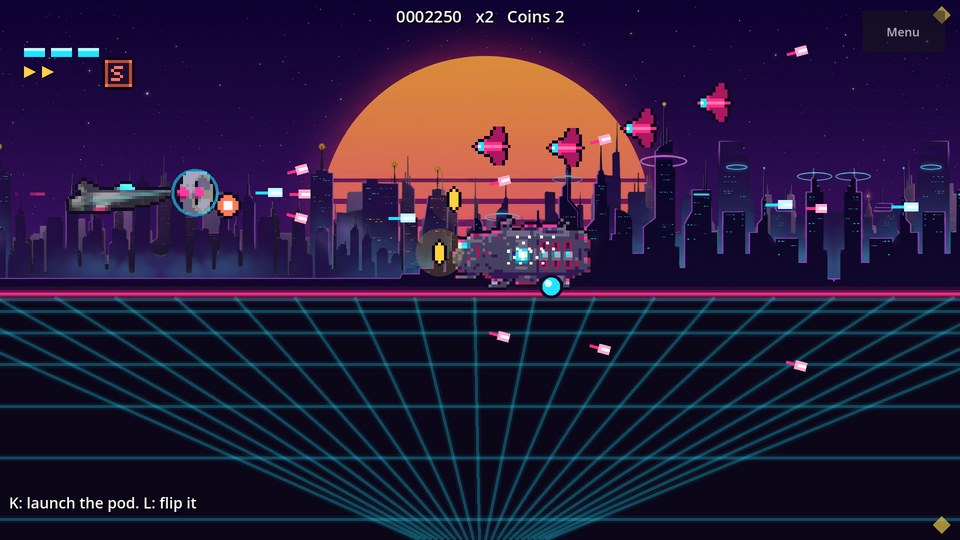
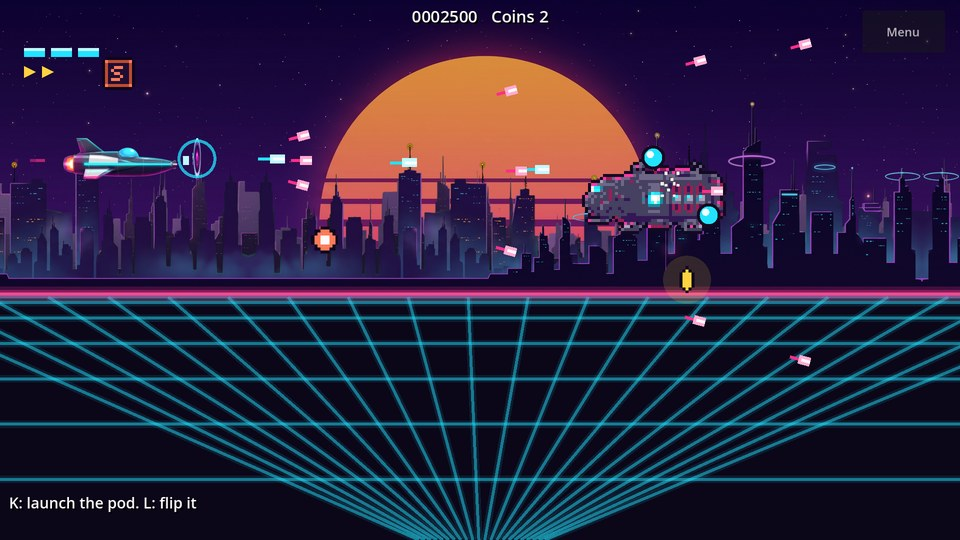
Sunset Static card: v0.10.0, new picture, updated stamp
Claude-Session: https://claude.ai/code/session_0117TTY9Shd3oMHo44cQrrLR

diff --git a/index.html b/index.html
@@ -68,12 +68,13 @@ h2 a[href="lo-fi-league/"]{font-size:.9em;word-spacing:.35em}h2 a[href="pixel-ho
 <!-- One card per game. To add a game, copy a card, change data-repo, the picture, the text and the links. The version fills itself from each game page. The Updated stamp does not: every release sets it to the release date and time in Central time (G1.10, G2.7). The page shows the newest Updated stamp first, so a new card can go anywhere in this list. -->
 <section class="grid">
 
+
 <article class="card" data-repo="sunset-static">
-<a class="shot" href="sunset-static/"><img src="images/sunset-static.jpg?v=0.9.0" alt="Sunset Static: the needle ship and its pod fire at a Ring Carrier and drifters over a painted neon city skyline and striped sunset" width="960" height="540" loading="lazy"></a>
+<a class="shot" href="sunset-static/"><img src="images/sunset-static.jpg?v=0.10.0" alt="Sunset Static: the HD painted needle ship and chrome pod fire at a Ring Carrier over a painted neon city and striped sunset" width="960" height="540" loading="lazy"></a>
 <div class="body">
 <div class="top"><h2><a href="sunset-static/">Sunset Static</a></h2><span class="tag">A calm neon side-scrolling shooter</span></div>
 <p class="desc">Fly a needle ship through a painted neon synthwave night, then on into a giant arcade in Stage 2. Shoot the waves, charge a neon arrow beam and steer a shield pod past crystal drones, shielded haulers, prize claws and bouncing saucers. Every enemy drops coins: spend them on permanent upgrades in the shop after each stage. No bosses and no game over. Five save slots. Touch, keyboard or Xbox controller, upright or sideways.</p>
-<p class="meta">Browser and Android<span class="ver"> · Version 0.9.0</span> <span class="upd">· Updated <time datetime="2026-11-22T11:10-06:00">Nov 22, 2026, 11:10 AM CT</time></span></p>
+<p class="meta">Browser and Android<span class="ver"> · Version 0.10.0</span> <span class="upd">· Updated <time datetime="2026-11-22T12:00-06:00">Nov 22, 2026, 12:00 PM CT</time></span></p>
 <div class="actions"><a class="btn" href="sunset-static/">Open game page</a></div>
 </div>
 </article>
